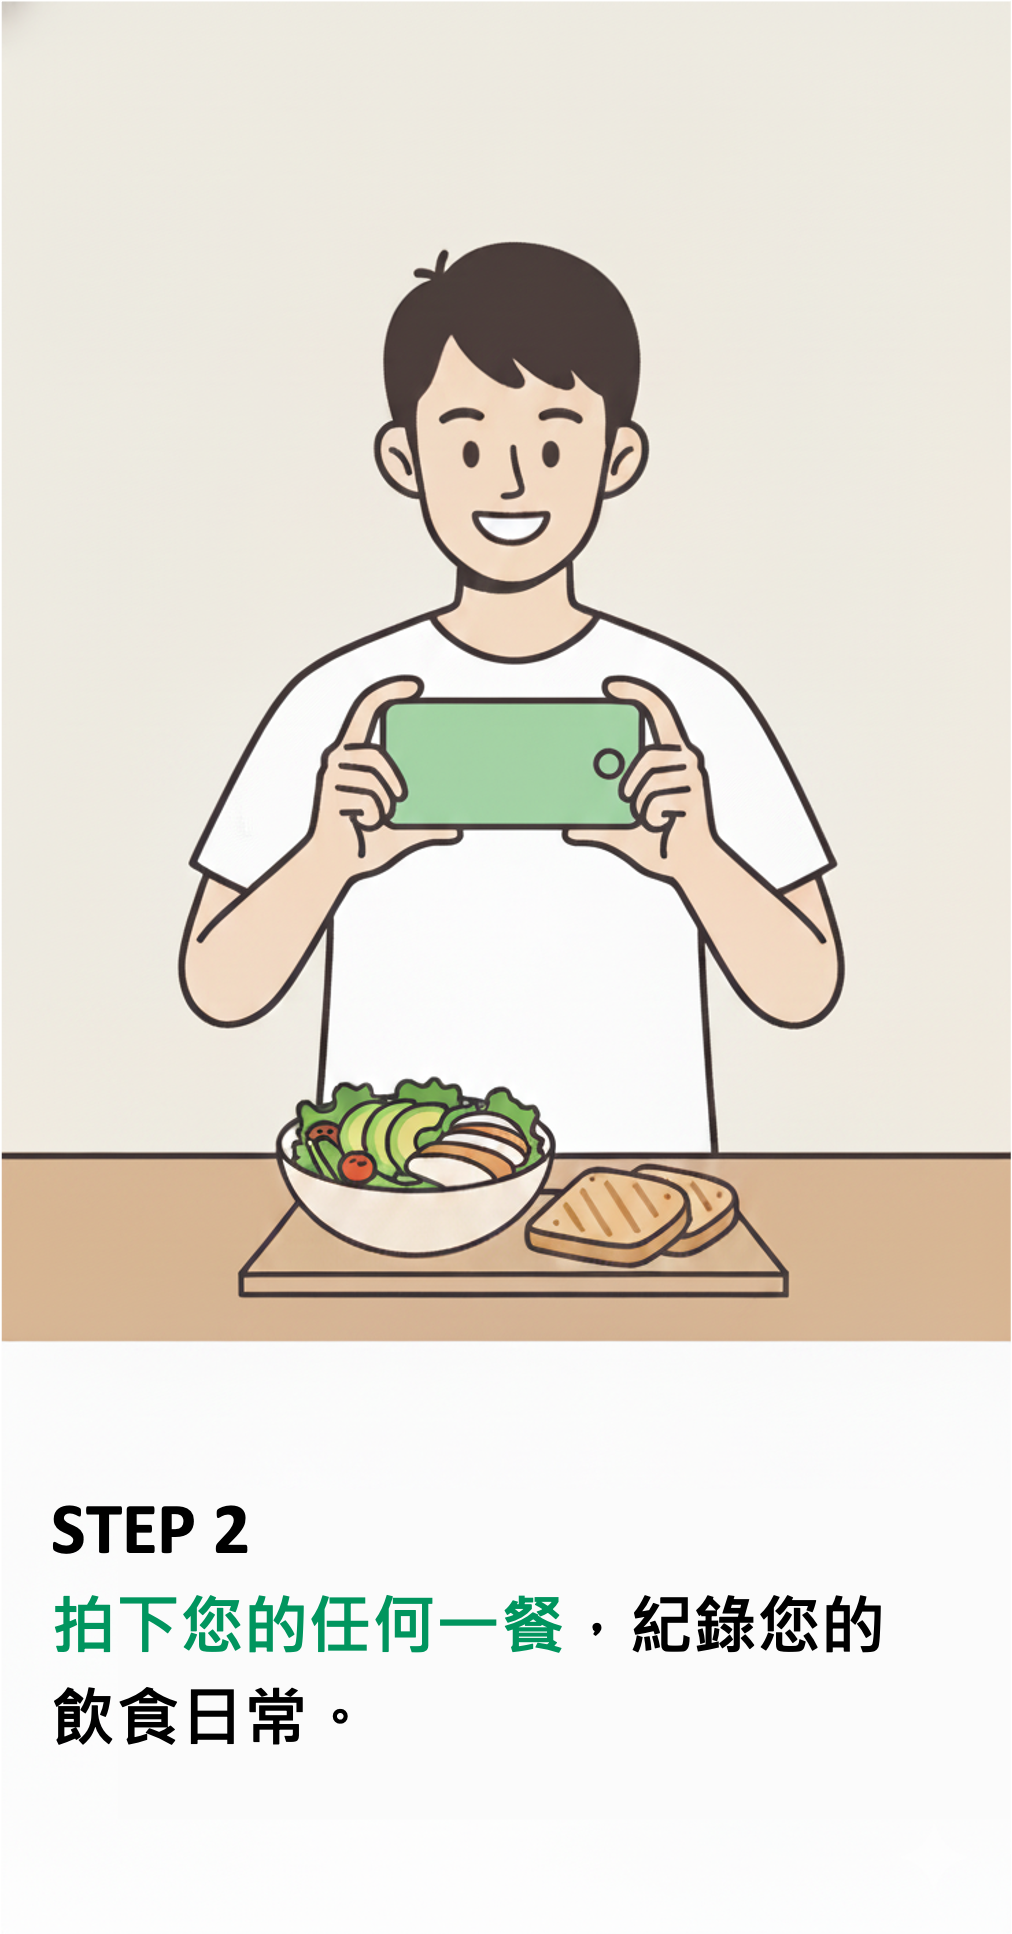
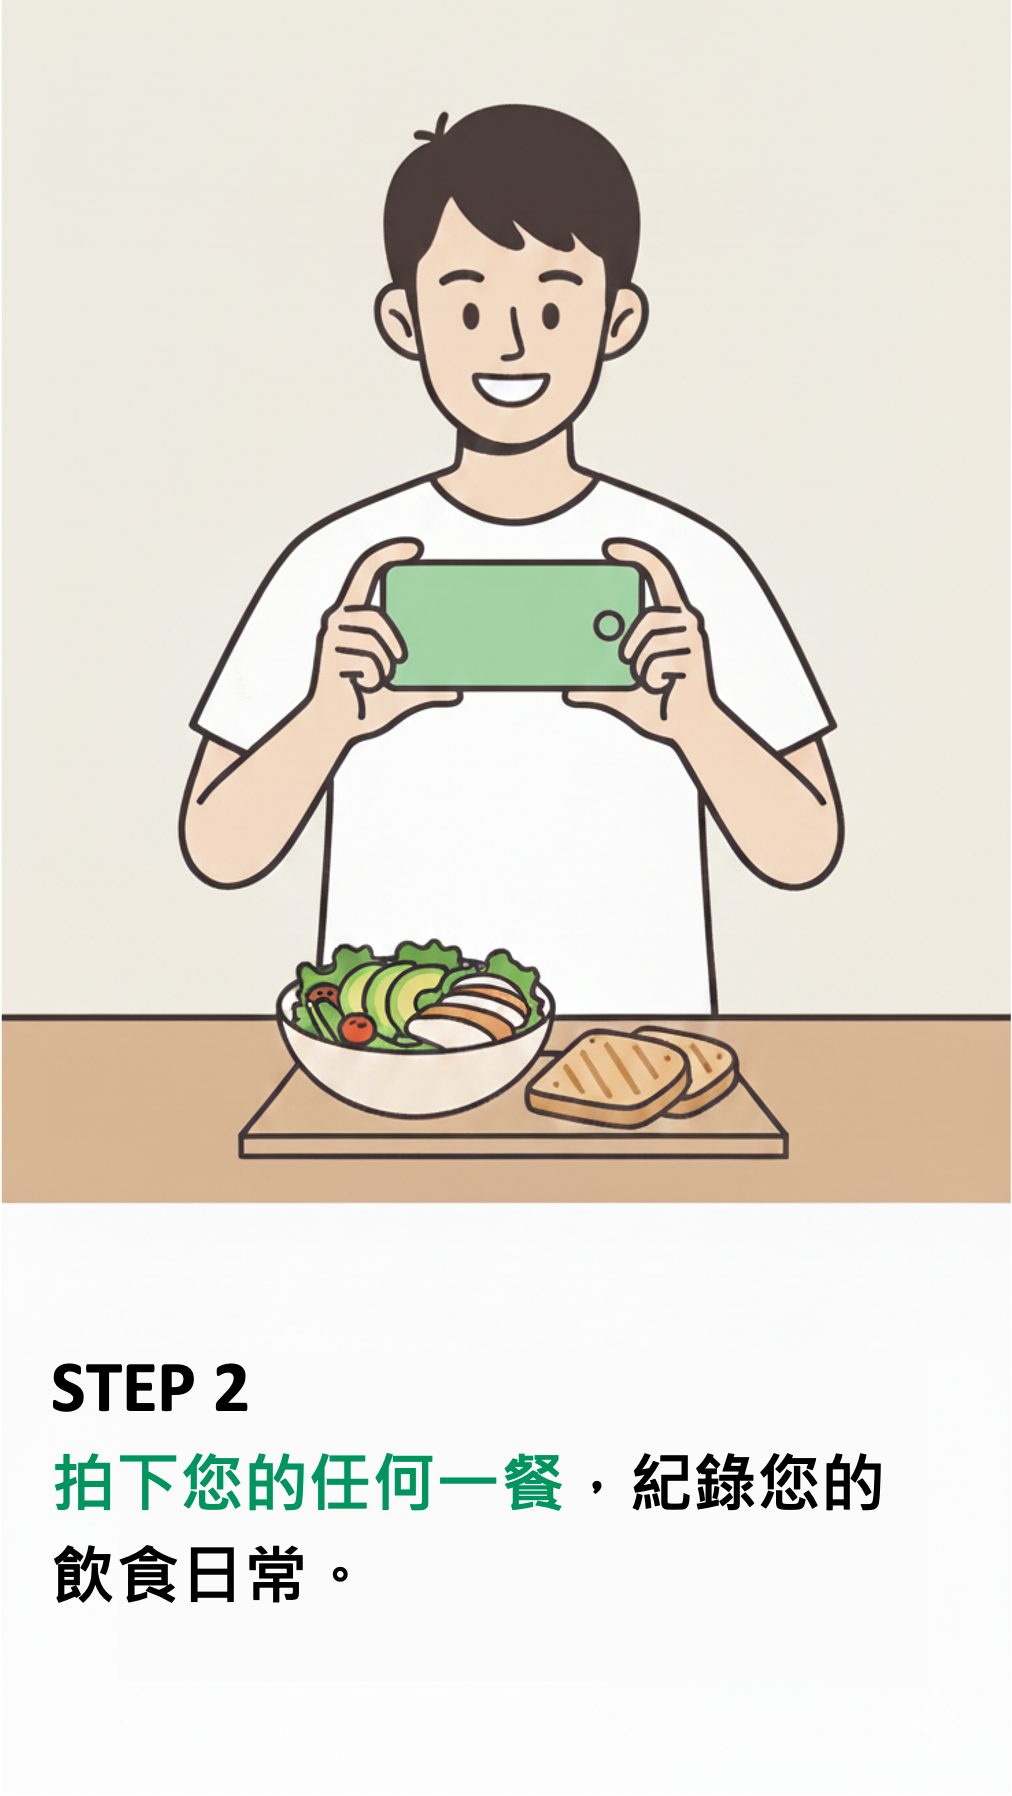
調整圖片大小, 移除黑夜版本css, 新增抽獎公告區

Changed region(s): [[0.0, 0.0312, 1.0, 0.7171], [0.0306, 0.7483, 0.5514, 0.9042], [0.6126, 0.8107, 0.8883, 0.8731]]

diff --git a/index.html b/index.html
@@ -52,6 +52,7 @@ tailwind.config = {
           <a href="#participation-steps" class="transition-colors hover:opacity-70" style="color: #0f231c;">參加方式</a>
           <a href="#prizes-section" class="transition-colors hover:opacity-70" style="color: #0f231c;">獎品清單</a>
           <a href="#schedule-section" class="transition-colors hover:opacity-70" style="color: #0f231c;">活動時程</a>
+          <a href="#winners-section" class="transition-colors hover:opacity-70" style="color: #0f231c;">抽獎公告</a>
           <a href="#rules-section" class="transition-colors hover:opacity-70" style="color: #0f231c;">活動規範</a>
         </div>
       </nav>
@@ -186,6 +187,78 @@ tailwind.config = {
             <div>
               <h3 class="text-xl font-semibold mb-2 text-bg-dark dark:text-bg-light">主辦單位</h3>
               <p class="text-bg-dark/80 dark:text-bg-light/80">國泰健康管理顧問股份有限公司</p>
+            </div>
+          </div>
+        </div>
+      </section>
+
+      <!-- 抽獎結果公告區塊 -->
+      <section class="mb-16" aria-labelledby="winners-section">
+        <div class="max-w-3xl mx-auto">
+          <h2 id="winners-section" class="text-3xl font-bold text-center mb-8 text-text">🎊 抽獎結果公告</h2>
+
+          <div class="bg-gray-100/80 rounded-lg p-6 sm:p-8" role="region" aria-label="抽獎結果資訊">
+
+            <!-- 公告前預告狀態 -->
+            <div id="announcement-preview" class="text-center">
+              <div class="inline-flex items-center justify-center w-16 h-16 bg-primary/10 rounded-full mb-4">
+                <span class="text-2xl">⏰</span>
+              </div>
+              <h3 class="text-xl font-semibold mb-3 text-text">中獎名單即將公佈</h3>
+              <p class="text-text/80 mb-4">
+                得獎公佈時間：<strong class="font-bold text-primary">
+                  <time datetime="2025-11-30">114年11月30日</time>
+                </strong>
+              </p>
+              <p class="text-sm text-text/60">
+                屆時將在此頁面公佈所有中獎者名單，請密切關注！
+              </p>
+            </div>
+
+            <!-- 公告後實際名單 (11/30後顯示) -->
+            <div id="winners-list" class="hidden">
+
+              <!-- 週獎品中獎者 -->
+              <div class="mb-8 border-b border-gray-200 pb-6">
+                <h3 class="text-xl font-semibold mb-4 text-text flex items-center">
+                  <span class="text-2xl mr-2">🏆</span>
+                  TANITA體組成計中獎者 (每週1名)
+                </h3>
+
+                <div class="grid sm:grid-cols-2 gap-4">
+                  <div class="bg-white/70 rounded-lg p-4">
+                    <h4 class="font-semibold text-primary mb-2">第一週 (10/20-10/26)</h4>
+                    <p class="text-text/80">將於11/30公佈</p>
+                  </div>
+                  <div class="bg-white/70 rounded-lg p-4">
+                    <h4 class="font-semibold text-primary mb-2">第二週 (10/27-11/02)</h4>
+                    <p class="text-text/80">將於11/30公佈</p>
+                  </div>
+                  <div class="bg-white/70 rounded-lg p-4">
+                    <h4 class="font-semibold text-primary mb-2">第三週 (11/03-11/09)</h4>
+                    <p class="text-text/80">將於11/30公佈</p>
+                  </div>
+                  <div class="bg-white/70 rounded-lg p-4">
+                    <h4 class="font-semibold text-primary mb-2">第四週 (11/10-11/16)</h4>
+                    <p class="text-text/80">將於11/30公佈</p>
+                  </div>
+                </div>
+              </div>
+
+              <!-- 日獎品中獎者 -->
+              <div>
+                <h3 class="text-xl font-semibold mb-4 text-text flex items-center">
+                  <span class="text-2xl mr-2">💰</span>
+                  $100禮券中獎者 (每日3名)
+                </h3>
+
+                <div class="bg-white/70 rounded-lg p-4">
+                  <p class="text-text/80 text-center">
+                    完整中獎名單將於 <strong class="text-primary">114年11月30日</strong> 在此頁面公佈
+                  </p>
+                </div>
+              </div>
+
             </div>
           </div>
         </div>
@@ -433,4 +506,28 @@ tailwind.config = {
       </footer>
     </main>
   </div>
+
+  <script>
+    // 抽獎結果顯示邏輯
+    function checkAnnouncementDate() {
+      const announcementDate = new Date('2025-11-30T00:00:00+08:00');
+      const currentDate = new Date();
+
+      const previewElement = document.getElementById('announcement-preview');
+      const winnersListElement = document.getElementById('winners-list');
+
+      if (currentDate >= announcementDate) {
+        // 11/30 後顯示中獎名單
+        previewElement.classList.add('hidden');
+        winnersListElement.classList.remove('hidden');
+      } else {
+        // 11/30 前顯示預告
+        previewElement.classList.remove('hidden');
+        winnersListElement.classList.add('hidden');
+      }
+    }
+
+    // 頁面載入時檢查
+    document.addEventListener('DOMContentLoaded', checkAnnouncementDate);
+  </script>
 </body></html>

diff --git a/styles.css b/styles.css
@@ -3,8 +3,8 @@
 
 :root {
   --color-primary: #019863;
-  --color-bg-light: #f0f9f5;
-  --color-bg-dark: #0f231c;
+  --color-bg: #f0f9f5;
+  --color-text: #0f231c;
   --font-display: 'Plus Jakarta Sans', sans-serif;
 }
 
@@ -22,20 +22,12 @@ body {
   background-color: var(--color-primary);
 }
 
-.bg-bg-light {
-  background-color: var(--color-bg-light);
+.bg-light {
+  background-color: var(--color-bg);
 }
 
-.bg-bg-dark {
-  background-color: var(--color-bg-dark);
-}
-
-.text-bg-dark {
-  color: var(--color-bg-dark);
-}
-
-.text-bg-light {
-  color: var(--color-bg-light);
+.text-dark {
+  color: var(--color-text);
 }
 
 .font-display {
@@ -72,13 +64,6 @@ body {
   }
 }
 
-/* 深色模式支援增強 */
-@media (prefers-color-scheme: dark) {
-  .auto-dark-mode {
-    background-color: var(--color-bg-dark);
-    color: var(--color-bg-light);
-  }
-}
 
 /* 可訪問性增強 */
 .cta-button:focus {
@@ -86,9 +71,24 @@ body {
   outline-offset: 2px;
 }
 
-/* 動畫性能優化 */
-.cta-button {
+/* CTA 按鈕樣式強化 - 防止文字折行 */
+.cta-button,
+a[role="button"] {
   will-change: transform;
+  white-space: nowrap;
+  display: inline-block;
+  text-align: center;
+  min-width: fit-content;
+}
+
+/* 手機版 CTA 按鈕調整 */
+@media (max-width: 640px) {
+  .cta-button,
+  a[role="button"] {
+    font-size: 1rem !important;
+    padding: 0.75rem 1.5rem !important;
+    white-space: nowrap;
+  }
 }
 
 /* FAQ收合組件樣式 */
@@ -117,7 +117,7 @@ body {
   cursor: pointer;
   background: rgba(249, 250, 251, 0.5);
   font-weight: 600;
-  color: var(--color-bg-dark);
+  color: var(--color-text);
   list-style: none;
   outline: none;
   transition: background-color 0.2s ease;
@@ -166,24 +166,22 @@ body {
   }
 }
 
-/* 深色模式支援 */
-@media (prefers-color-scheme: dark) {
-  .faq-summary {
-    background: rgba(15, 23, 42, 0.5);
-    color: var(--color-bg-light);
-  }
 
-  .faq-summary:hover {
-    background: rgba(1, 152, 99, 0.1);
-  }
+/* 抽獎公告區塊樣式 */
+.winners-announcement {
+  background: linear-gradient(135deg, rgba(1, 152, 99, 0.05) 0%, rgba(240, 249, 245, 0.8) 100%);
+  border: 1px solid rgba(1, 152, 99, 0.1);
+}
 
-  .faq-content {
-    color: rgba(203, 213, 225, 0.8);
-  }
+.winner-card {
+  transition: all 0.3s ease;
+  border: 1px solid rgba(1, 152, 99, 0.1);
+}
 
-  .faq-item {
-    border-color: rgba(71, 85, 105, 0.6);
-  }
+.winner-card:hover {
+  transform: translateY(-2px);
+  box-shadow: 0 4px 12px rgba(1, 152, 99, 0.1);
+  border-color: var(--color-primary);
 }
 
 /* 列印樣式優化 */